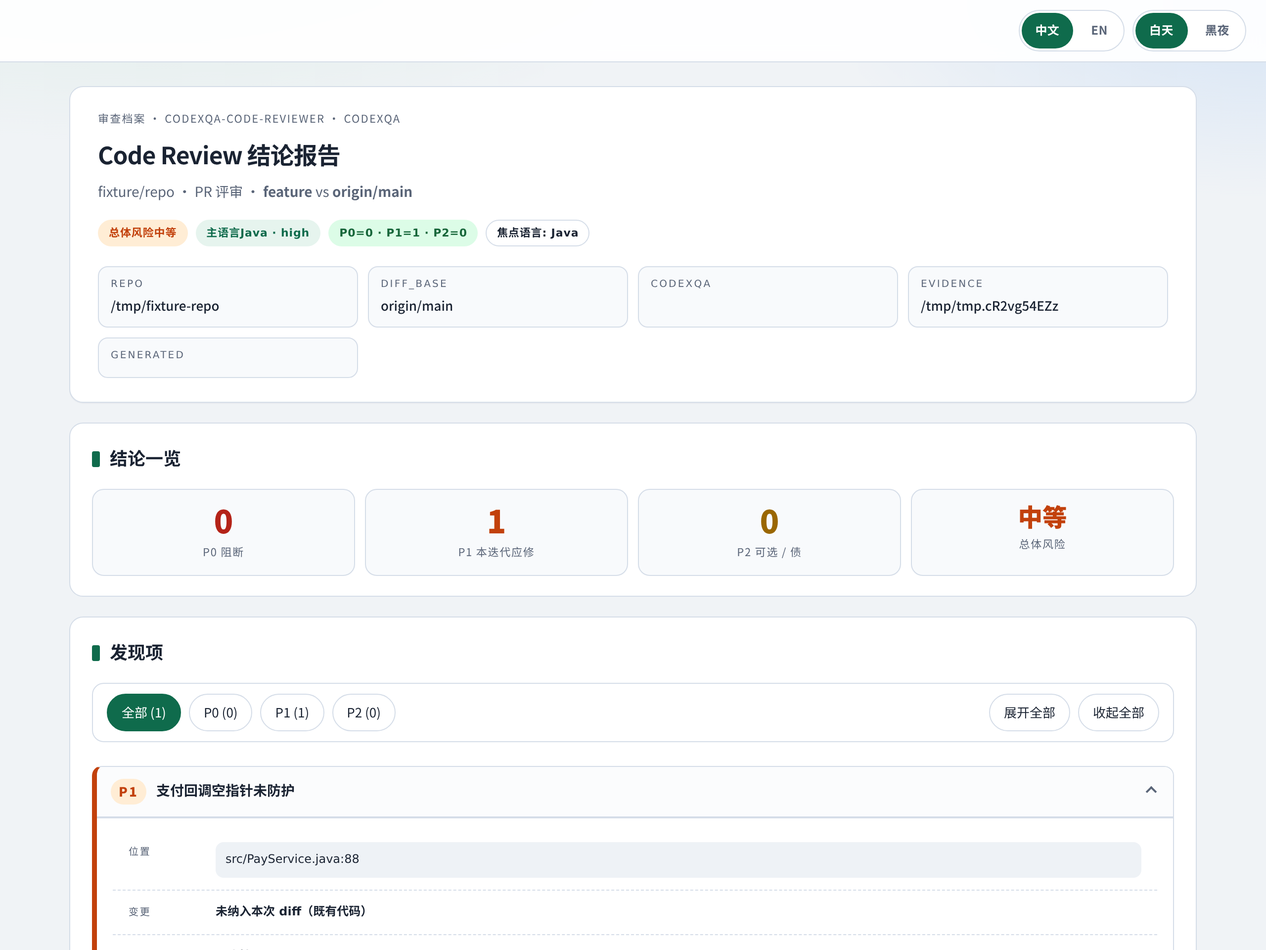
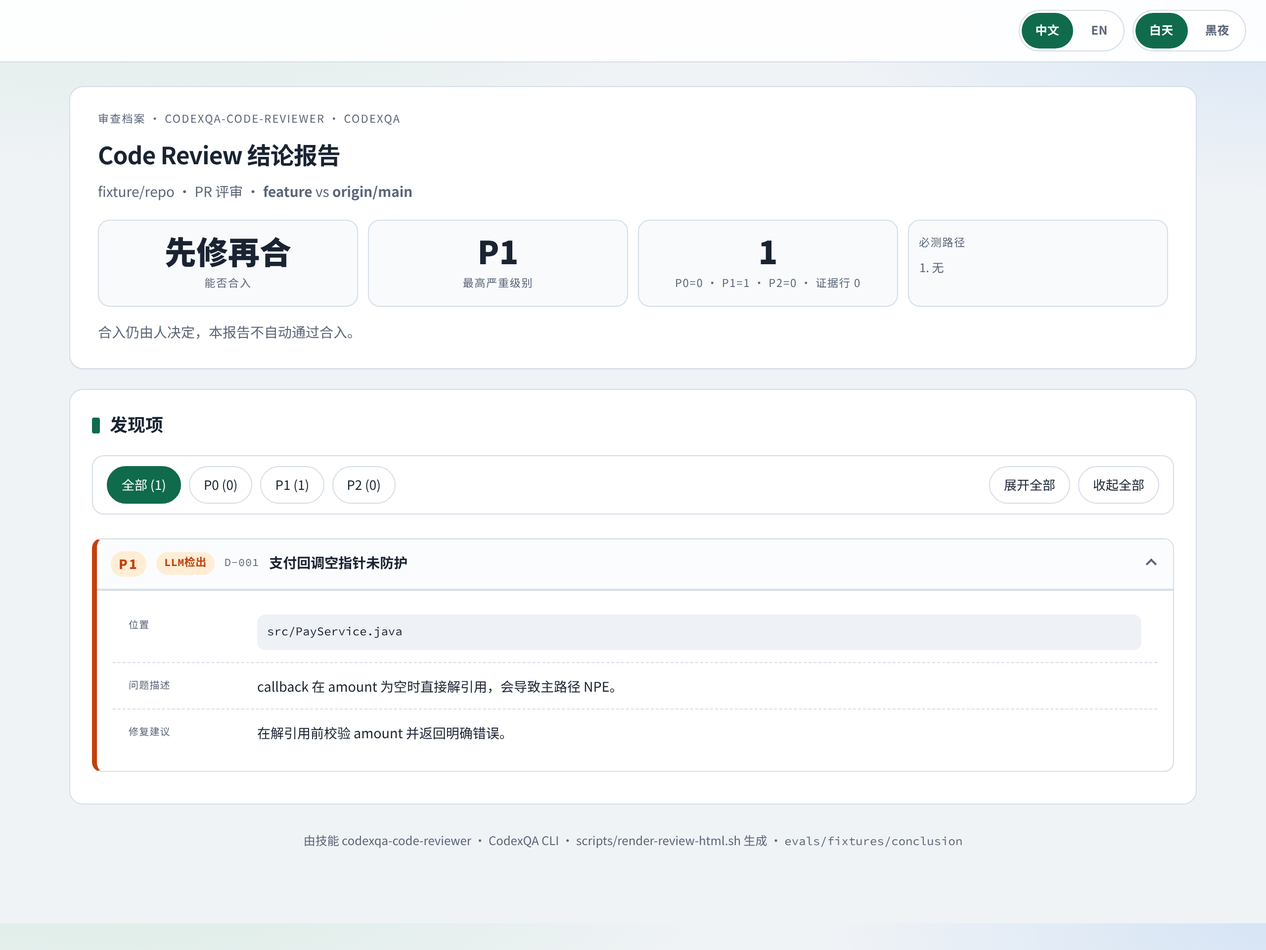
Show an English code-review homepage in the English README and keep field labels readable in both languages.

diff --git a/docs/assets/previews/review-report.html b/docs/assets/previews/review-report.html
@@ -179,7 +179,9 @@ h1 { margin:0 0 10px; font-size:24px; letter-spacing:-.02em; text-wrap:balance; 
 .alert { padding:12px 14px; border-radius:10px; font-size:13px; margin:0; border:1px solid var(--line); }
 .alert-warn { background:var(--p1-bg); color:var(--p1); border-color:transparent; }
 .alert-drop { background:var(--p0-bg); color:var(--p0); border-color:transparent; }
+.unit-en { display:none; }
 html[data-lang="en"] .unit-zh { display:none; }
+html[data-lang="en"] .unit-en { display:inline; }
 html[data-lang="zh"] .unit-en { display:none; }
 .was { color:var(--p0); text-decoration:line-through; }
 .now { color:var(--acc); font-weight:600; }
@@ -234,6 +236,18 @@ h3 { font-size: 1rem; margin: 16px 0 8px; color: var(--ink); }
 .stat.p1 .n { color: var(--p1); }
 .stat.p2 .n { color: var(--p2); }
 .stat.risk .n { color: var(--med); font-size: clamp(1rem, 2.4vw, 1.55rem); }
+.stat.must { text-align: left; }
+.stat.must .n { font-size: 1rem; }
+.must-list { margin: 8px 0 0; padding-left: 1.1em; text-align: left; font-size: 12px; line-height: 1.45; }
+.defect-id { font-family: var(--mono); font-size: 11px; color: var(--muted); letter-spacing: .04em; }
+.detect { flex: 0 0 auto; font-family: var(--mono); font-size: 11px; font-weight: 700; letter-spacing: .02em; padding: 3px 8px; border-radius: 999px; }
+.detect.sast { background: var(--lang-bg); color: var(--lang-fg); }
+.detect.llm { background: var(--p1-bg); color: var(--p1); }
+.fold { margin-top: 12px; }
+.fold > summary { cursor: pointer; font-weight: 650; padding: 8px 0; }
+.dim-fold { padding: 12px 16px; background: var(--sheet); border: 1px solid var(--line); border-radius: 14px; }
+.convention-list { margin: 0; padding-left: 1.2em; }
+.convention-list li { margin: 6px 0; }
 .lede { margin: 16px 0 0; overflow-wrap: anywhere; }
 .findings-hint { margin: 0 0 14px; }
 .findings-stack { display: grid; gap: 12px; }
@@ -258,9 +272,9 @@ h3 { font-size: 1rem; margin: 16px 0 8px; color: var(--ink); }
 .sev.p1 { background: var(--p1-bg); color: var(--p1); }
 .sev.p2 { background: var(--p2-bg); color: var(--p2); }
 .finding h3 { margin: 0; flex: 1 1 220px; min-width: 0; font-size: 14px; font-weight: 600; letter-spacing: 0; text-wrap: balance; }
-.field { display: grid; grid-template-columns: 76px minmax(0, 1fr); gap: 12px; padding: 12px 16px; border-top: 1px dashed var(--line); }
+.field { display: grid; grid-template-columns: 118px minmax(0, 1fr); gap: 12px; padding: 12px 16px; border-top: 1px dashed var(--line); }
 .field:first-child { border-top: 0; }
-.field-k { font-family: var(--mono); font-size: 10px; letter-spacing: .14em; text-transform: uppercase; color: var(--muted); padding-top: 3px; }
+.field-k { font-family: var(--mono); font-size: 10px; letter-spacing: .06em; text-transform: uppercase; color: var(--muted); padding-top: 3px; overflow-wrap: anywhere; }
 .field-v { min-width: 0; margin: 0; font-size: 13.5px; line-height: 1.65; overflow-wrap: anywhere; white-space: pre-wrap; color: var(--ink); }
 .field-v.is-path { font-family: var(--mono); font-size: 12px; background: var(--code-bg); padding: 8px 10px; border-radius: 8px; word-break: break-all; }
 .field-v.is-cat, .field-v.is-conf { font-family: var(--mono); font-size: 12px; font-weight: 600; }
@@ -304,35 +318,15 @@ footer { margin-top: 8px; color: var(--muted); font-size: 12px; text-align: cent
 <header class="hero"><div class="hero-inner">
 <p class="kicker" data-zh="审查档案 · codexqa-code-reviewer · CodexQA" data-en="INSPECTION DOSSIER · codexqa-code-reviewer · CodexQA">审查档案 · codexqa-code-reviewer · CodexQA</p>
 <h1 data-zh="Code Review 结论报告" data-en="Code Review Report">Code Review 结论报告</h1>
-<p class="sub">fixture/repo · <span class="mode-bi"><span data-zh="PR 评审" data-en="pr">PR 评审</span></span> · <strong>feature</strong> vs <strong>origin/main</strong></p>
-<div class="badge-row">
-<span class="badge risk-med"><span data-zh="总体风险" data-en="Overall risk">总体风险</span> <span data-zh="中等" data-en="Medium">中等</span></span>
-<span class="badge lang"><span data-zh="主语言" data-en="Primary language">主语言</span> Java · high</span>
-<span class="badge ok">P0=0 · P1=1 · P2=0</span>
-<span class="badge"><span data-zh="焦点语言" data-en="focus">焦点语言</span>: Java</span>
-</div>
-<div class="meta-grid">
-<div class="meta"><span class="k">repo</span><span class="v">/tmp/fixture-repo</span></div>
-<div class="meta"><span class="k">diff_base</span><span class="v">origin/main</span></div>
-<div class="meta"><span class="k">codexqa</span><span class="v"></span></div>
-<div class="meta"><span class="k" data-zh="evidence" data-en="evidence">evidence</span><span class="v">/tmp/tmp.cR2vg54EZz</span></div>
-<div class="meta"><span class="k" data-zh="generated" data-en="generated">generated</span><span class="v"></span></div>
-</div>
-</div></header>
-<section><h2 data-zh="结论一览" data-en="Overview">结论一览</h2>
+<p class="sub">fixture/repo · <span class="mode-bi"><span data-zh="PR 评审" data-en="PR review">PR 评审</span></span> · <strong>feature</strong> vs <strong>origin/main</strong></p>
 <div class="stats">
-<div class="stat p0"><div class="n">0</div><div class="l" data-zh="P0 阻断" data-en="P0 Blocker">P0 阻断</div></div>
-<div class="stat p1"><div class="n">1</div><div class="l" data-zh="P1 本迭代应修" data-en="P1 fix this iteration">P1 本迭代应修</div></div>
-<div class="stat p2"><div class="n">0</div><div class="l" data-zh="P2 可选 / 债" data-en="P2 optional / debt">P2 可选 / 债</div></div>
-<div class="stat risk"><div class="n"><span data-zh="中等" data-en="Medium">中等</span></div><div class="l" data-zh="总体风险" data-en="Overall risk">总体风险</div></div>
+<div class="stat"><div class="n" data-zh="先修再合" data-en="Fix, then merge">先修再合</div><div class="l" data-zh="能否合入" data-en="Merge">能否合入</div></div>
+<div class="stat"><div class="n" data-zh="P1" data-en="P1">P1</div><div class="l" data-zh="最高严重级别" data-en="Highest severity">最高严重级别</div></div>
+<div class="stat"><div class="n">1</div><div class="l">P0=0 · P1=1 · P2=0 · <span data-zh="证据行 " data-en="evidence lines ">证据行 </span>0</div></div>
+<div class="stat must"><div class="l" data-zh="必测路径" data-en="Must-test paths">必测路径</div><ol class="must-list"><li class="muted" data-zh="无" data-en="None">无</li></ol></div>
 </div>
-<p class="lede" data-zh="Smoke conclusion including llm_judgment block after dedupe." data-en="Smoke conclusion including llm_judgment block after dedupe.">Smoke conclusion including llm_judgment block after dedupe.</p>
-<p class="muted lede"><span data-zh="意图：" data-en="Intent: ">意图：</span><span data-zh="Fixture smoke with Agent LLM judgment section" data-en="Fixture smoke with Agent LLM judgment section">Fixture smoke with Agent LLM judgment section</span></p>
-<p class="muted lede"><span data-zh="范围：" data-en="Scope: ">范围：</span><span data-zh="1 symbol" data-en="1 symbol">1 symbol</span></p>
-<p class="muted lede" data-zh="合入决策留给人工；本报告不自动通过合入。" data-en="Merge decision is left to humans; this report does not auto-approve.">合入决策留给人工；本报告不自动通过合入。</p>
-</section>
-<section><h2 data-zh="模型语义评审" data-en="Agent LLM judgment">模型语义评审</h2>
-<div class="field"><span class="field-k" data-zh="结论" data-en="Verdict">结论</span><div class="field-v is-cat"><span data-zh="需关注" data-en="concern">需关注</span></div></div><div class="field"><span class="field-k" data-zh="风险说明" data-en="Risk">风险说明</span><div class="field-v " data-zh="合并后仍有 1 个新颖语义问题：空指针路径未处理。" data-en="After merge, 1 novel semantic issue remains: unhandled NPE path.">合并后仍有 1 个新颖语义问题：空指针路径未处理。</div></div><div class="field"><span class="field-k" data-zh="新颖问题数" data-en="新颖问题数">新颖问题数</span><div class="field-v " data-zh="1" data-en="1">1</div></div><div class="field"><span class="field-k" data-zh="去重合并数" data-en="去重合并数">去重合并数</span><div class="field-v " data-zh="2" data-en="2">2</div></div><div class="field"><span class="field-k" data-zh="enrich 数" data-en="enrich 数">enrich 数</span><div class="field-v " data-zh="1" data-en="1">1</div></div><div class="field"><span class="field-k" data-zh="审阅焦点" data-en="审阅焦点">审阅焦点</span><div class="field-v " data-zh="src/PayService.java (diff hunk)" data-en="src/PayService.java (diff hunk)">src/PayService.java (diff hunk)</div></div><div class="field"><span class="field-k" data-zh="依据" data-en="Evidence">依据</span><div class="field-v " data-zh="22-llm-judgment.json + host-agent LLM pass" data-en="22-llm-judgment.json + host-agent LLM pass">22-llm-judgment.json + host-agent LLM pass</div></div><div class="field"><span class="field-k" data-zh="信号文件" data-en="Signals file">信号文件</span><div class="field-v is-path" data-zh="22-llm-judgment.json" data-en="22-llm-judgment.json">22-llm-judgment.json</div></div></section>
+<p class="muted lede" data-zh="合入仍由人决定，本报告不自动通过合入。" data-en="A person still decides the merge. This report does not auto-approve.">合入仍由人决定，本报告不自动通过合入。</p>
+</div></header>
 <section id="findings"><h2 data-zh="发现项" data-en="Findings">发现项</h2>
 <p class="muted findings-hint" data-zh="每条记录默认收起，点击卡片展开依据与修复建议。" data-en="Records are collapsed by default. Click a card to expand evidence and the suggested fix.">每条记录默认收起，点击卡片展开依据与修复建议。</p>
 <div class="toolbar">
@@ -347,21 +341,21 @@ footer { margin-top: 8px; color: var(--muted); font-size: 12px; text-align: cent
 <button class="tab" type="button" id="collapseAll"><span data-zh="收起全部" data-en="Collapse all">收起全部</span></button>
 </div></div>
 <div class="findings-stack" data-sev-panel="p0"><article class="finding case empty is-empty open" data-pri="P0"><header class="finding-head case-head"><span class="sev p0">P0</span><h3 data-zh="无" data-en="None">无</h3></header><div class="finding-body case-body"><p class="muted pad" data-zh="无此项。" data-en="None.">无此项。</p></div></article></div>
-<div class="findings-stack" data-sev-panel="p1"><article class="finding case p1" data-pri="P1"><header class="finding-head case-head" role="button" tabindex="0" aria-expanded="false"><span class="sev p1">P1</span><h3 data-zh="支付回调空指针未防护" data-en="Unhandled NPE on payment callback">支付回调空指针未防护</h3><span class="chev" aria-hidden="true"></span></header><div class="finding-body case-body"><div class="field"><span class="field-k" data-zh="位置" data-en="Location">位置</span><div class="field-v is-path" data-zh="src/PayService.java:88" data-en="src/PayService.java:88">src/PayService.java:88</div></div><div class="field"><span class="field-k" data-zh="变更" data-en="Change">变更</span><div class="field-v is-cat"><span data-zh="未纳入本次 diff（既有代码）" data-en="Not in this diff (existing code)">未纳入本次 diff（既有代码）</span></div></div><div class="field"><span class="field-k" data-zh="分类" data-en="Category">分类</span><div class="field-v is-cat"><span data-zh="正确性" data-en="correctness">正确性</span></div></div><div class="field"><span class="field-k" data-zh="风险" data-en="Risk">风险</span><div class="field-v " data-zh="callback 在 amount 为空时直接解引用，会导致主路径 NPE。" data-en="Callback dereferences null amount and NPE on main path.">callback 在 amount 为空时直接解引用，会导致主路径 NPE。</div></div><div class="field"><span class="field-k" data-zh="依据" data-en="Evidence">依据</span><div class="field-v " data-zh="diffs + on-disk PayService.java:88" data-en="diffs + on-disk PayService.java:88">diffs + on-disk PayService.java:88</div></div><div class="field"><span class="field-k" data-zh="修复建议" data-en="Fix">修复建议</span><div class="field-v " data-zh="在解引用前校验 amount 并返回明确错误。" data-en="Null-check amount before dereference and return a clear error.">在解引用前校验 amount 并返回明确错误。</div></div></div></article></div>
+<div class="findings-stack" data-sev-panel="p1"><article class="finding case p1" id="D-001" data-pri="P1"><header class="finding-head case-head" role="button" tabindex="0" aria-expanded="false"><span class="sev p1">P1</span><span class="detect llm" data-zh="LLM检出" data-en="LLM">LLM检出</span><span class="defect-id">D-001</span><h3 data-zh="支付回调空指针未防护" data-en="Unhandled NPE on payment callback">支付回调空指针未防护</h3><span class="chev" aria-hidden="true"></span></header><div class="finding-body case-body"><div class="field"><span class="field-k" data-zh="位置" data-en="Location">位置</span><div class="field-v is-path" data-zh="src/PayService.java" data-en="src/PayService.java">src/PayService.java</div></div><div class="field"><span class="field-k" data-zh="问题描述" data-en="Message">问题描述</span><div class="field-v " data-zh="callback 在 amount 为空时直接解引用，会导致主路径 NPE。" data-en="Callback dereferences null amount and NPE on main path.">callback 在 amount 为空时直接解引用，会导致主路径 NPE。</div></div><div class="field"><span class="field-k" data-zh="修复建议" data-en="Recommendation">修复建议</span><div class="field-v " data-zh="在解引用前校验 amount 并返回明确错误。" data-en="Null-check amount before dereference and return a clear error.">在解引用前校验 amount 并返回明确错误。</div></div><details class="fold"><summary data-zh="调用链与分类" data-en="Call chain and category">调用链与分类</summary><div class="field"><span class="field-k" data-zh="变更" data-en="Change">变更</span><div class="field-v is-cat"><span data-zh="未纳入本次 diff（既有代码）" data-en="Not in this diff (existing code)">未纳入本次 diff（既有代码）</span></div></div><div class="field"><span class="field-k" data-zh="分类" data-en="Category">分类</span><div class="field-v is-cat"><span data-zh="正确性" data-en="correctness">正确性</span></div></div><div class="field"><span class="field-k" data-zh="调用链路" data-en="Call chain">调用链路</span><div class="field-v is-chain"><div class="call-chain"><div class="chain-title" data-zh="未记录调用方" data-en="No caller recorded">未记录调用方</div><p data-zh="图里没有记下指向这一行的调用边。这不是僵尸函数。这一行可能是注释、导入，或由命令行直接进入。" data-en="The graph did not record a caller into this line. That does not make it a dead function. The line may be a comment, an import, or a command-line entry.">图里没有记下指向这一行的调用边。这不是僵尸函数。这一行可能是注释、导入，或由命令行直接进入。</p></div></div></div></details></div></article></div>
 <div class="findings-stack" data-sev-panel="p2"><article class="finding case empty is-empty open" data-pri="P2"><header class="finding-head case-head"><span class="sev p2">P2</span><h3 data-zh="无" data-en="None">无</h3></header><div class="finding-body case-body"><p class="muted pad" data-zh="无此项。" data-en="None.">无此项。</p></div></article></div>
 </section>
+<details class="fold dim-fold"><summary data-zh="维度与调用链" data-en="Dimensions and call chains">维度与调用链</summary>
+<section><h2 data-zh="模型语义评审" data-en="Agent LLM judgment">模型语义评审</h2>
+<div class="field"><span class="field-k" data-zh="结论" data-en="Verdict">结论</span><div class="field-v is-cat"><span data-zh="需关注" data-en="concern">需关注</span></div></div><div class="field"><span class="field-k" data-zh="风险说明" data-en="Risk">风险说明</span><div class="field-v " data-zh="合并后仍有 1 个新颖语义问题：空指针路径未处理。" data-en="After merge, 1 novel semantic issue remains: unhandled NPE path.">合并后仍有 1 个新颖语义问题：空指针路径未处理。</div></div><div class="field"><span class="field-k" data-zh="新颖问题数" data-en="Novel findings">新颖问题数</span><div class="field-v " data-zh="1" data-en="1">1</div></div><div class="field"><span class="field-k" data-zh="去重合并数" data-en="Deduped">去重合并数</span><div class="field-v " data-zh="2" data-en="2">2</div></div><div class="field"><span class="field-k" data-zh="enrich 数" data-en="Enriched">enrich 数</span><div class="field-v " data-zh="1" data-en="1">1</div></div><div class="field"><span class="field-k" data-zh="审阅焦点" data-en="Focus">审阅焦点</span><div class="field-v " data-zh="src/PayService.java (diff hunk)" data-en="src/PayService.java (diff hunk)">src/PayService.java (diff hunk)</div></div><div class="field"><span class="field-k" data-zh="依据" data-en="Evidence">依据</span><div class="field-v " data-zh="22-llm-judgment.json + host-agent LLM pass" data-en="22-llm-judgment.json + host-agent LLM pass">22-llm-judgment.json + host-agent LLM pass</div></div><div class="field"><span class="field-k" data-zh="信号文件" data-en="Signals file">信号文件</span><div class="field-v is-path" data-zh="22-llm-judgment.json" data-en="22-llm-judgment.json">22-llm-judgment.json</div></div></section>
+</details>
 <section><h2 data-zh="回归必测清单" data-en="Regression must-test">回归必测清单</h2>
 <p class="muted" data-zh="目标列写清可执行场景（入口/条件/期望）；证据列用通俗依据，勿只填符号 UUID 或证据包路径。" data-en="Write executable scenarios (entry/conditions/expected result). Evidence should be plain language — not only UUIDs or pack paths.">目标列写清可执行场景（入口/条件/期望）；证据列用通俗依据，勿只填符号 UUID 或证据包路径。</p>
 <div class="table-wrap"><table><thead><tr><th data-zh="回归测试场景" data-en="Regression scenario">回归测试场景</th><th data-zh="为什么必测" data-en="Why required">为什么必测</th><th data-zh="依据说明" data-en="Evidence">依据说明</th></tr></thead><tbody>
 <tr><td colspan="3" class="muted" data-zh="无" data-en="None">无</td></tr>
 </tbody></table></div></section>
-<section><h2 data-zh="测试缺口" data-en="Test gaps">测试缺口</h2>
-<p class="muted" data-zh="统计口径：看调用图里该生产符号是否被测试覆盖边罩住——tested_count&gt;0 或 tests-reach 非空才算已测。这不是「仓库有没有 tests 目录 / 有没有单测文件」。测试文件里普通调用了函数、或文件名带 test，都不算覆盖。因此可能出现：仓库里已有测试代码，但图上仍记为缺口。" data-en="Criterion: a production symbol counts as tested only when the call graph has a tests coverage edge (tested_count&gt;0 or non-empty tests-reach). This is not about whether a tests/ folder or unit-test files exist. Ordinary calls from test files, or test-like filenames, do not count as coverage. So the repo may already have tests while the graph still shows a gap.">统计口径：看调用图里该生产符号是否被测试覆盖边罩住——tested_count>0 或 tests-reach 非空才算已测。这不是「仓库有没有 tests 目录 / 有没有单测文件」。测试文件里普通调用了函数、或文件名带 test，都不算覆盖。因此可能出现：仓库里已有测试代码，但图上仍记为缺口。</p>
-<div class="table-wrap"><table><thead><tr><th data-zh="符号" data-en="Symbol">符号</th><th>tested_count</th><th>tests-reach</th><th data-zh="说明" data-en="Notes">说明</th></tr></thead><tbody>
-<tr><td colspan="4" class="muted" data-zh="无" data-en="None">无</td></tr>
-</tbody></table></div>
-<p class="muted lede"><span data-zh="敏感路径：" data-en="Sensitive paths: ">敏感路径：</span><span data-zh="None" data-en="None">None</span></p></section>
-<footer><span data-zh="由技能 codexqa-code-reviewer · CodexQA CLI · scripts/render-review-html.sh 生成" data-en="Generated by skill codexqa-code-reviewer · CodexQA CLI · scripts/render-review-html.sh">由技能 codexqa-code-reviewer · CodexQA CLI · scripts/render-review-html.sh 生成</span> · <span class="path">/tmp/tmp.cR2vg54EZz</span></footer>
+<section><h2 data-zh="敏感路径" data-en="Sensitive paths">敏感路径</h2>
+<p class="muted lede"><span data-zh="None" data-en="None">None</span></p></section>
+<footer><span data-zh="由技能 codexqa-code-reviewer · CodexQA CLI · scripts/render-review-html.sh 生成" data-en="Generated by skill codexqa-code-reviewer · CodexQA CLI · scripts/render-review-html.sh">由技能 codexqa-code-reviewer · CodexQA CLI · scripts/render-review-html.sh 生成</span> · <span class="path">evals/fixtures/conclusion</span></footer>
 </div>
 <script>
 (function(){
@@ -381,6 +375,9 @@ footer { margin-top: 8px; color: var(--muted); font-size: 12px; text-align: cent
     });
     document.querySelectorAll('[data-zh-placeholder][data-en-placeholder]').forEach(el => {
       el.setAttribute('placeholder', el.getAttribute(lang === 'en' ? 'data-en-placeholder' : 'data-zh-placeholder') || '');
+    });
+    document.querySelectorAll('[data-zh-alt][data-en-alt]').forEach(el => {
+      el.setAttribute('alt', el.getAttribute(lang === 'en' ? 'data-en-alt' : 'data-zh-alt') || '');
     });
   }
 

diff --git a/skills/codexqa-code-reviewer/assets/report.css b/skills/codexqa-code-reviewer/assets/report.css
@@ -265,9 +265,9 @@ h3 { font-size: 1rem; margin: 16px 0 8px; color: var(--ink); }
 .sev.p1 { background: var(--p1-bg); color: var(--p1); }
 .sev.p2 { background: var(--p2-bg); color: var(--p2); }
 .finding h3 { margin: 0; flex: 1 1 220px; min-width: 0; font-size: 14px; font-weight: 600; letter-spacing: 0; text-wrap: balance; }
-.field { display: grid; grid-template-columns: 76px minmax(0, 1fr); gap: 12px; padding: 12px 16px; border-top: 1px dashed var(--line); }
+.field { display: grid; grid-template-columns: 118px minmax(0, 1fr); gap: 12px; padding: 12px 16px; border-top: 1px dashed var(--line); }
 .field:first-child { border-top: 0; }
-.field-k { font-family: var(--mono); font-size: 10px; letter-spacing: .14em; text-transform: uppercase; color: var(--muted); padding-top: 3px; }
+.field-k { font-family: var(--mono); font-size: 10px; letter-spacing: .06em; text-transform: uppercase; color: var(--muted); padding-top: 3px; overflow-wrap: anywhere; }
 .field-v { min-width: 0; margin: 0; font-size: 13.5px; line-height: 1.65; overflow-wrap: anywhere; white-space: pre-wrap; color: var(--ink); }
 .field-v.is-path { font-family: var(--mono); font-size: 12px; background: var(--code-bg); padding: 8px 10px; border-radius: 8px; word-break: break-all; }
 .field-v.is-cat, .field-v.is-conf { font-family: var(--mono); font-size: 12px; font-weight: 600; }

diff --git a/skills/codexqa-code-reviewer/assets/report-extras.css b/skills/codexqa-code-reviewer/assets/report-extras.css
@@ -67,9 +67,9 @@ h3 { font-size: 1rem; margin: 16px 0 8px; color: var(--ink); }
 .sev.p1 { background: var(--p1-bg); color: var(--p1); }
 .sev.p2 { background: var(--p2-bg); color: var(--p2); }
 .finding h3 { margin: 0; flex: 1 1 220px; min-width: 0; font-size: 14px; font-weight: 600; letter-spacing: 0; text-wrap: balance; }
-.field { display: grid; grid-template-columns: 76px minmax(0, 1fr); gap: 12px; padding: 12px 16px; border-top: 1px dashed var(--line); }
+.field { display: grid; grid-template-columns: 118px minmax(0, 1fr); gap: 12px; padding: 12px 16px; border-top: 1px dashed var(--line); }
 .field:first-child { border-top: 0; }
-.field-k { font-family: var(--mono); font-size: 10px; letter-spacing: .14em; text-transform: uppercase; color: var(--muted); padding-top: 3px; }
+.field-k { font-family: var(--mono); font-size: 10px; letter-spacing: .06em; text-transform: uppercase; color: var(--muted); padding-top: 3px; overflow-wrap: anywhere; }
 .field-v { min-width: 0; margin: 0; font-size: 13.5px; line-height: 1.65; overflow-wrap: anywhere; white-space: pre-wrap; color: var(--ink); }
 .field-v.is-path { font-family: var(--mono); font-size: 12px; background: var(--code-bg); padding: 8px 10px; border-radius: 8px; word-break: break-all; }
 .field-v.is-cat, .field-v.is-conf { font-family: var(--mono); font-size: 12px; font-weight: 600; }

diff --git a/docs/assets/previews/README.md b/docs/assets/previews/README.md
@@ -5,7 +5,7 @@ Sample HTML used as screenshots in the repository README. Most are **illustratio
 | File | Skill | How it was produced |
 |---|---|---|
 | `defect-report.html` / `.png` | `codexqa-defect-analyzer` | `merge_report.render_html_report` (testcase-generator chrome; canned inventory-service findings). `.png` is the Chinese homepage. `defect-report-en.png` is the same page with EN selected; the root English README uses that shot |
-| `review-report.html` / `.png` | `codexqa-code-reviewer` | `scripts/render-review-html.sh` on `evals/fixtures/conclusion/with-llm-judgment.json` |
+| `review-report.html` / `.png` | `codexqa-code-reviewer` | `scripts/render-review-html.sh` on `evals/fixtures/conclusion/with-llm-judgment.json`. `.png` is the Chinese homepage. `review-report-en.png` is the same page with EN selected; the root English README uses that shot |
 | `code-wiki.html` / `.png` | `codexqa-code-wiki` | `render-code-wiki.mjs`: the skill's own renderer on its test fixture (a real `wiki inputs` export of this repo plus written `notes.json`); PNG is a **4:3** crop (`1280×960`), Chinese homepage |
 | `code-wiki-en.html` / `.png` | `codexqa-code-wiki` | Same export and renderer with `notes.en.json` (`"lang": "en"`). PNG is the English homepage at the same **4:3** crop. The root English README uses this shot |
 | `code-analyzer.html` / `.png` | `codexqa-code-analyzer` | Wrapper around published `checkout-change-impact.svg` |

diff --git a/README.md b/README.md
@@ -59,7 +59,7 @@ GitHub is the skill source; product site: [openqa.cn](https://openqa.cn/?utm_sou
 <p><strong><a href="skills/codexqa-code-reviewer/README.md">codexqa-code-reviewer</a></strong></p>
 <p><strong>Verifies</strong> — whether this change is merge-ready, and whether it silently hits old behavior. A git diff alone rarely shows call chains or test gaps.</p>
 <p><strong>Does</strong> — collects a CodexQA evidence pack (callers, blast radius, test edges), then writes a bilingual <code>REVIEW-REPORT.html</code> you can send to a reviewer.</p>
-<p align="center"><a href="https://htmlpreview.github.io/?https://github.com/openqa-cn/codexqa/blob/main/docs/assets/previews/review-report.html"><img src="docs/assets/previews/review-report.png" alt="codexqa-code-reviewer bilingual REVIEW-REPORT.html"></a></p>
+<p align="center"><a href="https://htmlpreview.github.io/?https://github.com/openqa-cn/codexqa/blob/main/docs/assets/previews/review-report.html"><img src="docs/assets/previews/review-report-en.png" alt="codexqa-code-reviewer bilingual REVIEW-REPORT.html"></a></p>
 </td>
 </tr>
 <tr>
